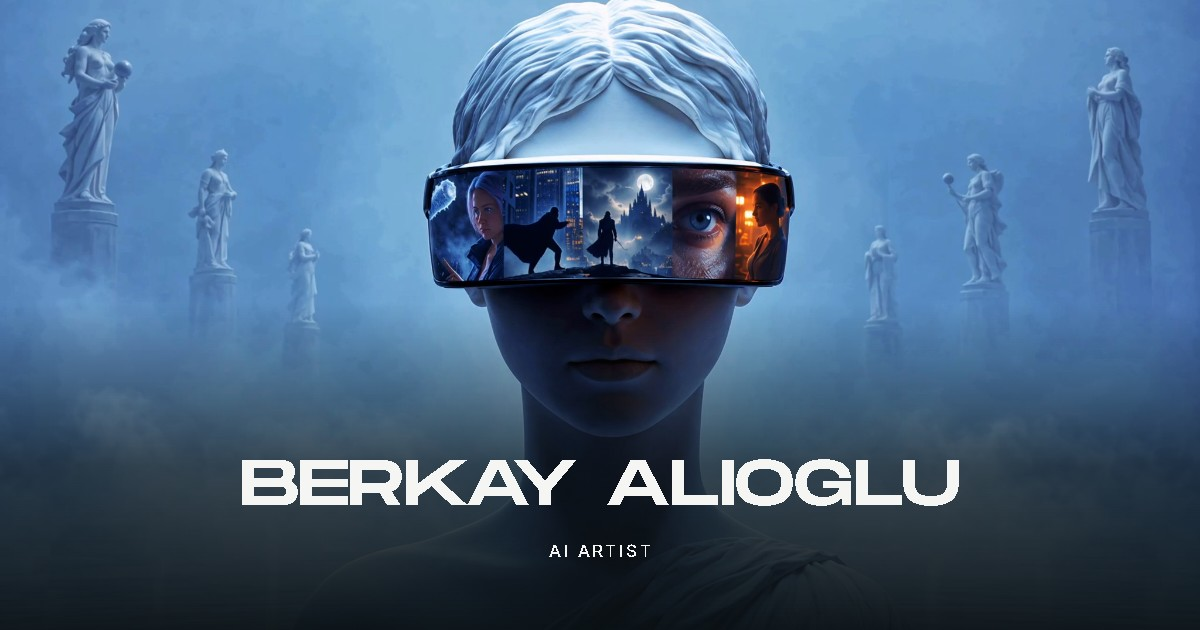
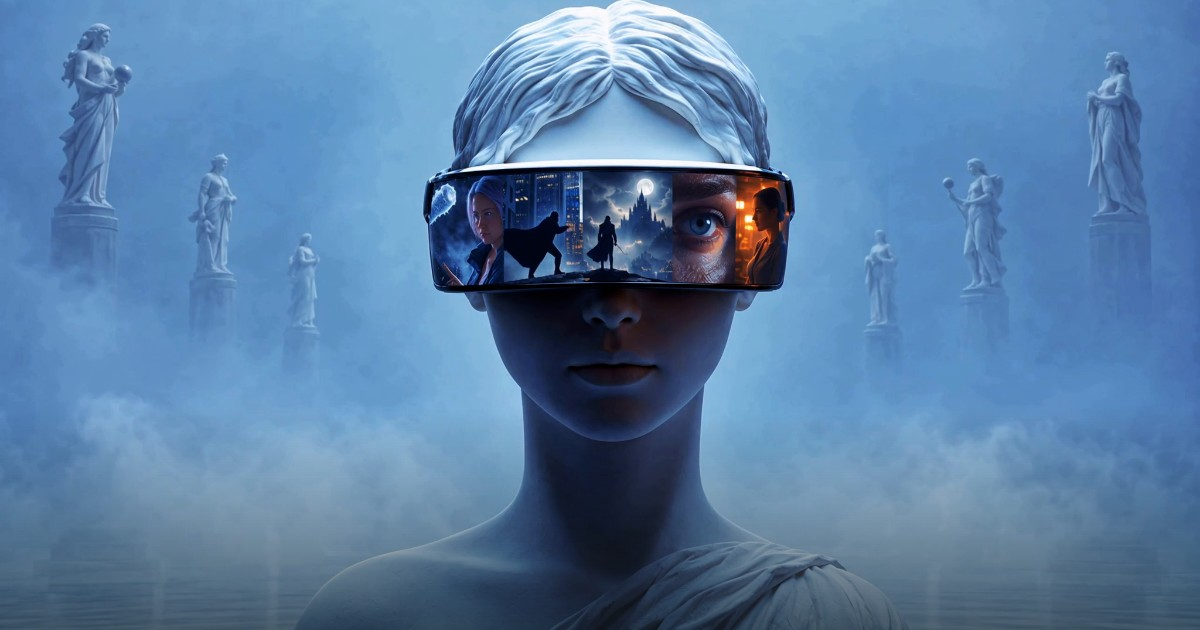
Share image without text, statue centred for square previews

diff --git a/index.html b/index.html
@@ -9,7 +9,7 @@
   <meta property="og:title" content="Berkay Alioglu">
   <meta property="og:description" content="AI Artist">
   <meta property="og:url" content="https://berkayalioglu.com/">
-  <meta property="og:image" content="https://berkayalioglu.com/assets/share.jpg?v=3">
+  <meta property="og:image" content="https://berkayalioglu.com/assets/share.jpg?v=4">
   <meta property="og:image:width" content="1200">
   <meta property="og:image:height" content="630">
   <meta property="og:image:alt" content="Berkay Alioglu — AI artist and filmmaker">
